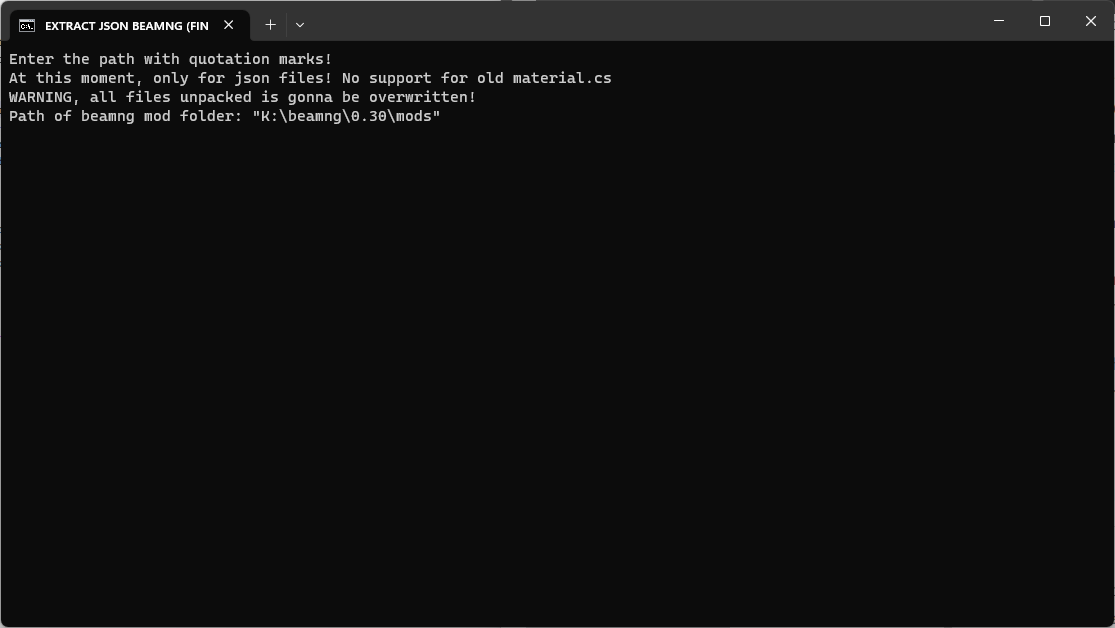
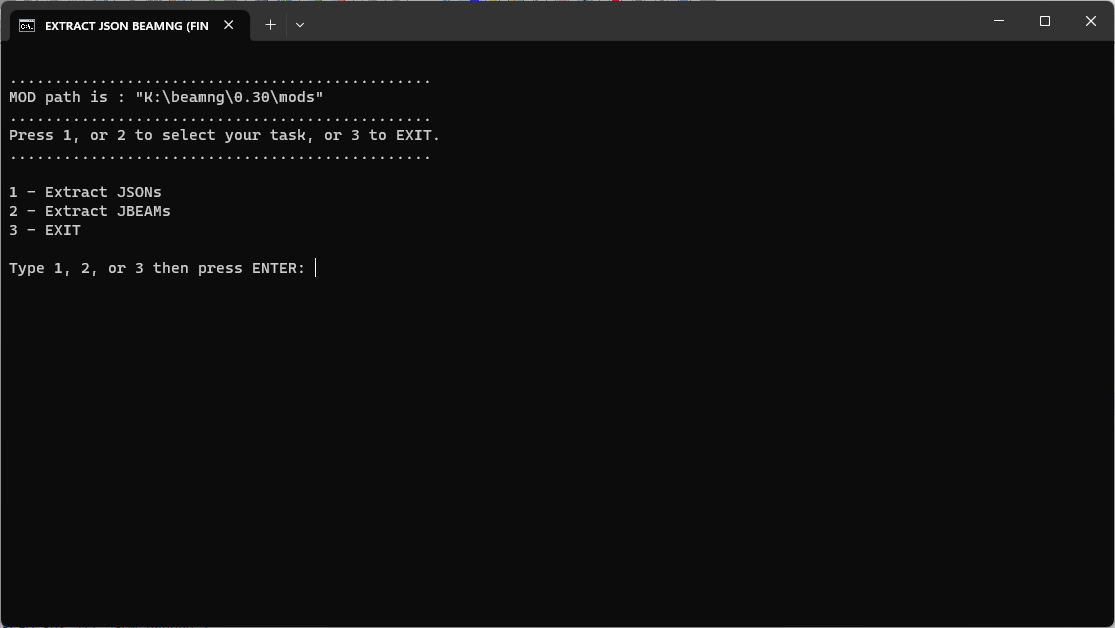
Add more unpacking type
External config file, unpack legacy textures

diff --git a/README.MD b/README.MD
@@ -1,3 +1,4 @@
+
 # Fix beamng No Texture issues easily!
 
 This application is made for **BEAMNG Drive** zipped mods in order to find what causing NO TEXTURE issues. It also can be modified to work on other file types, like jbeam.
@@ -6,17 +7,21 @@ This application is made for **BEAMNG Drive** zipped mods in order to find what 
 # How to?
 
  1. Download from releases
- 2. Double click the batch file
- 3. Pin point to beamng mod folders. DO NOT FORGET QUOTATION MARKS! (example: **"K:\beamng\0.30\mods"**) ![note the quotation marks](https://github.com/bitelaserkhalif/beamng-beamfix/blob/master/manual_images/CMD.png?raw=true "CMD example")
- 4. Let it do the job unpacking....
- 5. Open the resultant folder in [VSCode](https://code.visualstudio.com/), or [VSCodium](https://vscodium.com/) (for zero tracker experience)
- 6. Hit CTRL + SHIFT + F to find in all files
- 7. From beamng console (tilde button default), type the missing source texture path and filename ![Look at the red errors!](https://github.com/bitelaserkhalif/beamng-beamfix/blob/master/manual_images/20231002130733_1.jpg?raw=true "Errors is Red")
- 8. You can then determine the mod name (from folder name) and disable.
+ 2. **Edit the config.txt.**
+	 - On the line that says "bNGmodPath=", pinpoint to your beamng folder . Example: *bNGmodPath="K:\beamng\0.30\mods"*
+ 3. Double click the batch file
+ 4. Select the options. For json, choose 1. For jbeam, choose 2. For quit, choose 3. ![Choose wisely](https://github.com/bitelaserkhalif/beamng-beamfix/blob/master/manual_images/CMD.png?raw=true "CMD example")
+ 5. For json, you have two options: unpack all json (choose 1), or unpack *.materials.json file (choose 2). For cancel, choose C. ![Choose wisely](https://github.com/bitelaserkhalif/beamng-beamfix/blob/master/manual_images/CMD2.png?raw=true "CMD example")
+ 6. After that, you have option to include (if exists) legacy materials.cs file. Choose Y to unpack, choose N to not include. For cancel, choose C. ![Choose wisely](https://github.com/bitelaserkhalif/beamng-beamfix/blob/master/manual_images/CMD3.png?raw=true "CMD example")
+  7. After that, it would show which file to unpack. Press any key ![Any key!](https://github.com/bitelaserkhalif/beamng-beamfix/blob/master/manual_images/CMD4.png?raw=true "CMD example")
+ 8. Let it do the job unpacking....
+ 9. Open the resultant folder in [VSCode](https://code.visualstudio.com/), or [VSCodium](https://vscodium.com/) (for zero tracker experience)
+ 10. Hit CTRL + SHIFT + F to find in all files
+ 11. From beamng console (tilde button default), type the missing source texture path and filename ![Look at the red errors!](https://github.com/bitelaserkhalif/beamng-beamfix/blob/master/manual_images/20231002130733_1.jpg?raw=true "Errors is Red")
+ 12. You can then determine the mod name (from folder name) and disable.
 
 # Warnings!
 
- - At this moment, I do not check for textures.cs file (old textures type).
  - Every unpack overwrites the files on output folders.
  - Resultant could be BIG! (571 mods zipped, unpacked to 1 GB, YMMV)
 
@@ -24,6 +29,11 @@ This application is made for **BEAMNG Drive** zipped mods in order to find what 
 
 Find in releases on right side.
 
+# Configs!
+
+On config.txt, several options are:
+
+ - bNGmodPath: path to beamng mod folder. USE QUOTATION MARKS!
 
 # Credits!
 
